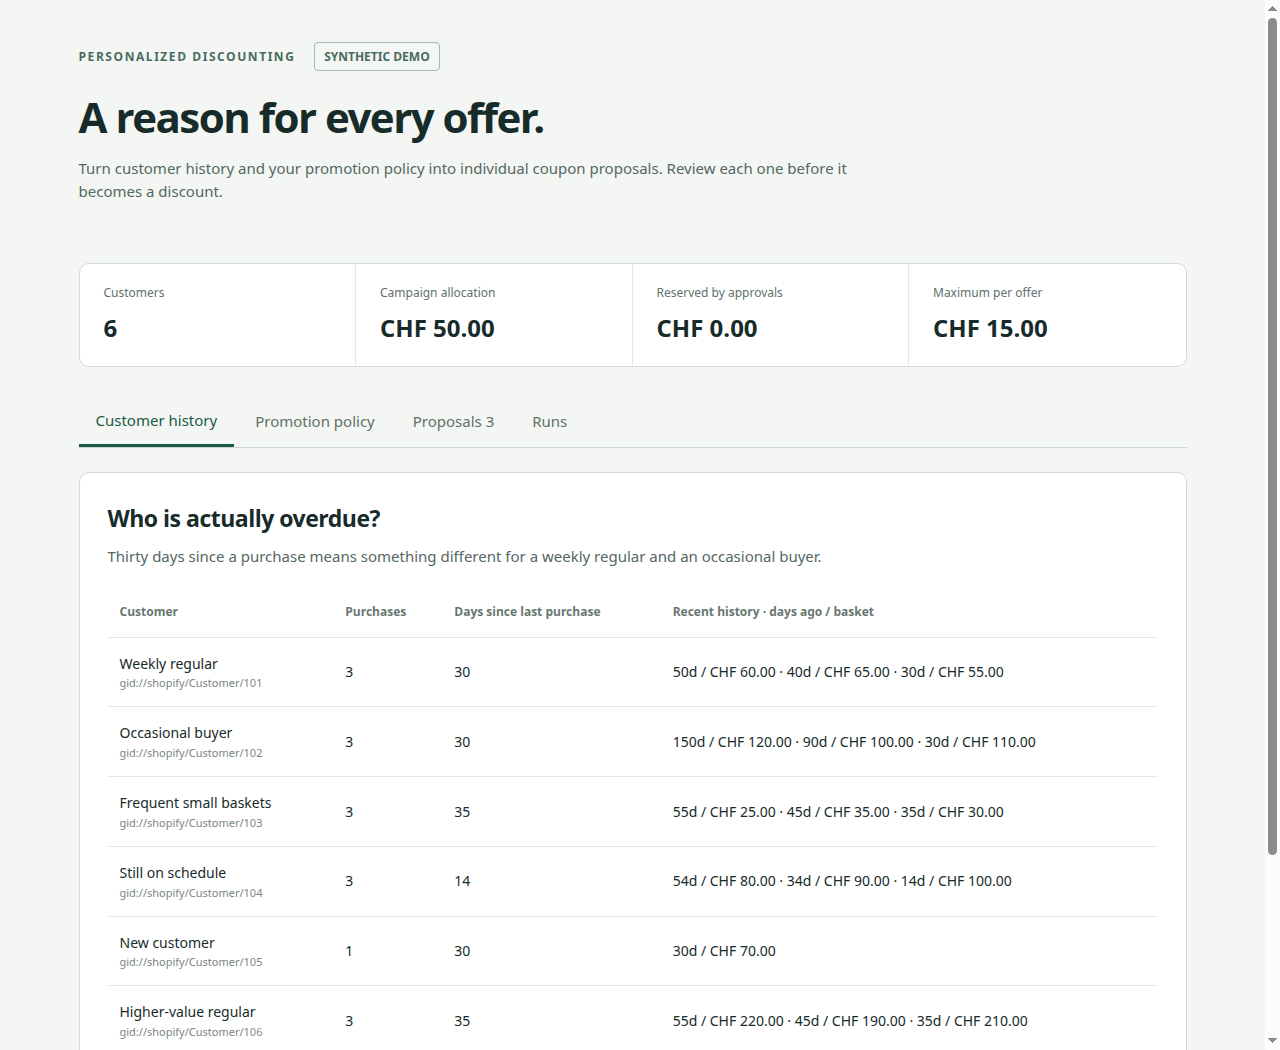
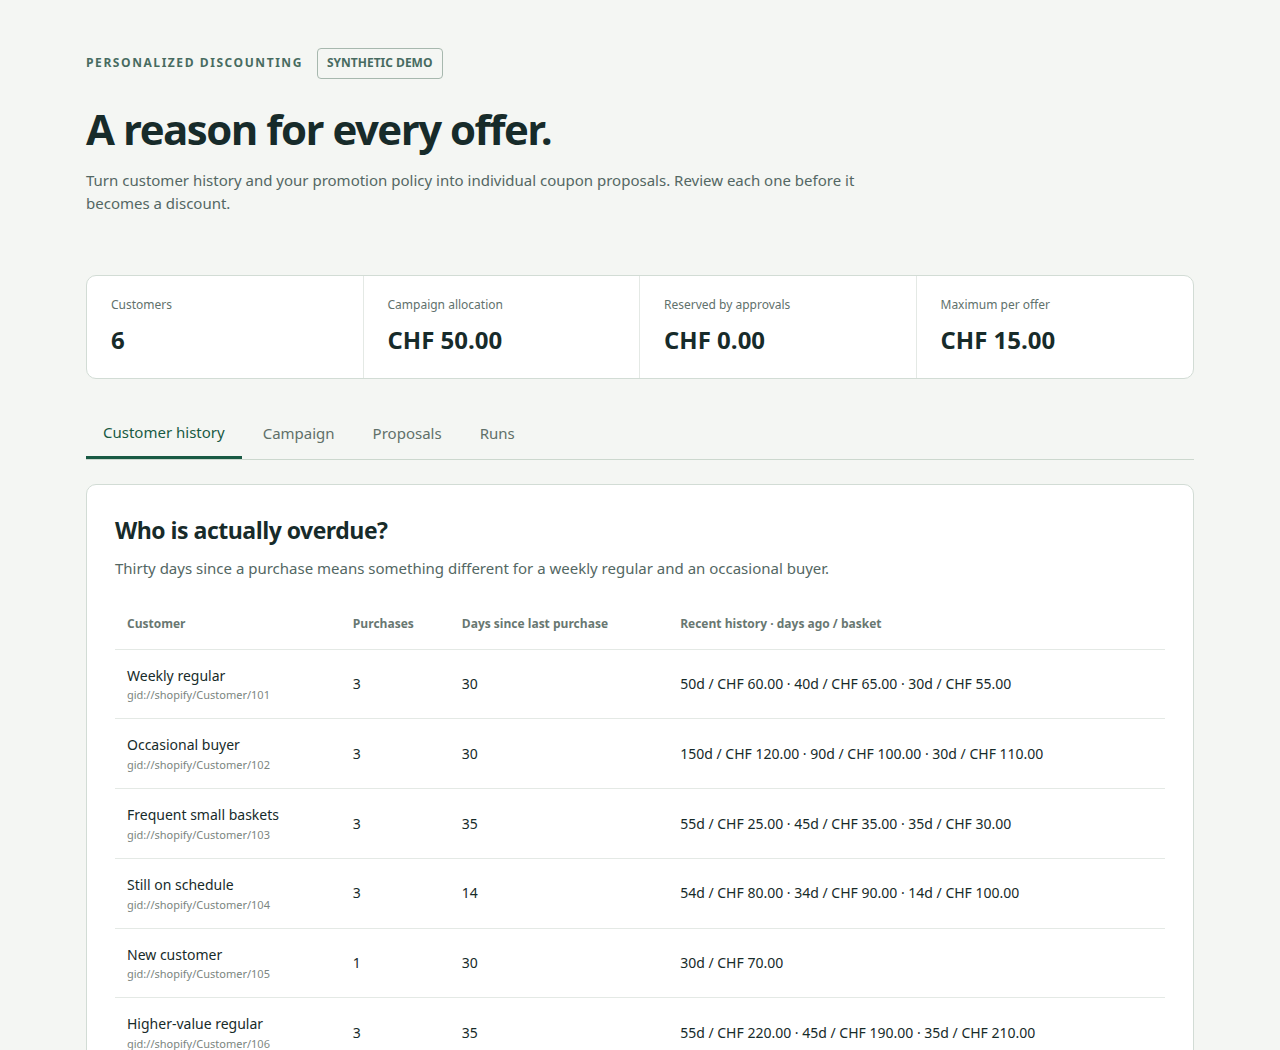
Improve solution

diff --git a/docs/content/case-studies/personalized-discounting.md b/docs/content/case-studies/personalized-discounting.md
@@ -60,96 +60,64 @@ the program sees and what it does.
 
 ## The agentic solution
 
-Harpe provides that API. Before any program exists, the owner's application
-declares, as a Jo interface, what a program may see and do. The interface lists
-only what discounting needs. The AI then writes a program in Jo, and Harpe
-checks it against the interface before running it. A program that reaches for
-anything else does not run.
+The owner's application defines the narrow API as a Jo interface. The AI writes
+a Jo program against it, and Harpe compiles the program before running it.
+
+The program cannot reach around the interface, because
+[all side effects are denied by default](/overview/compile-time-sandboxing/).
+Files, the network, the database, and Python do not exist in the program's
+compilation environment, so the program cannot even name them. It can use only
+what it receives: the `promotions` interface and printing. Anything else is a
+compile error.
 
 ![The owner's application holds the Shopify access key, the mapping from stand-in labels to real customer IDs, and approval. Names and addresses are never imported. A Jo interface, checked before the program runs, lets the AI-written program see stand-in labels, purchase dates, and basket amounts, and only save draft offers. Reading a name or calling anything else is rejected before the program runs.](/img/personalized-discounting-boundary.svg)
 
-For the owner, the flow stays simple. They write the promotion rule in plain
-language and ask for proposals. The program saves a draft coupon for each
-customer it selects, with:
+This is the entire interface:
 
-- The discount amount, minimum basket, and expiry.
-- A reason that shows the purchase figures behind the offer.
+```jo
+class Purchase(day: Int, subtotalCents: Int)
+class Customer(id: String, purchases: List[Purchase])
+class Campaign(today: Int, currency: String, budgetCents: Int, maxOfferCents: Int)
+class Offer(customerId: String, amountCents: Int, minimumSpendCents: Int, reason: String)
 
-A draft is not a real discount. The owner approves or rejects each one.
-Approval creates a single-use coupon that only that customer can use. Nothing
-is emailed.
+interface Promotions
+  def campaign(): Campaign
+  def customers(): List[Customer]
+  def saveDrafts(offers: List[Offer]): String
+end
 
-The owner can change a sentence and ask again. Each run keeps the rule and the
-customer data it used, so every reason points to specific evidence.
-
-## What the program can see
-
-The program must tell one customer's purchases from another's. It does not need
-to know who those customers are. It sees records like this:
-
-```text
-customer-1
-  50 days ago: CHF 60
-  40 days ago: CHF 65
-  30 days ago: CHF 55
+param promotions: Promotions
+defer def runTask(): Unit receives IO.stdout, promotions
 ```
 
-`customer-1` is a stand-in label, not the Shopify customer ID. Anyone with admin
-access can turn a Shopify ID back into a name. The owner's application keeps
-track of who `customer-1` is and uses that when the owner approves a coupon.
+It is reviewed once, in version control, and it binds every program the AI will
+ever write.
 
-| The program sees | The program cannot see |
-| --- | --- |
-| A stand-in customer label | Shopify customer ID |
-| Purchase dates | Name, email, phone number |
-| Basket amounts | Billing and shipping addresses |
-| The owner's rule and budget | Order notes, payment details |
+**What the program sees.** A customer is a stand-in label such as `customer-1`
+and a list of purchase dates and amounts. `Customer` has no name, email, or
+Shopify ID field, so a program that reads one does not compile. The program
+reads no free text, so nothing a customer typed can steer the AI. The Shopify
+import never fetches names or addresses in the first place.
 
-The only free text the program reads is the owner's rule. Nothing a customer
-typed can reach it.
-
-Two layers keep it this way. The Shopify import fetches only each order's date,
-amount, status, and customer ID, so names and addresses never enter the
-application. The program's interface then leaves out the Shopify IDs. It
-describes a customer as a label and a purchase history. A program that asks for
-`name` or `email` is rejected before it runs.
-
-## What the program can do
-
-The program may do four things:
-
-```text
-Read the campaign budget and limits
-Read the owner's rule
-Read the customer purchase histories
-Save draft offers with reasons
-```
-
-A program that tries anything else, such as opening the database, calling the
-network, or approving a draft, is rejected before it runs. The Shopify access
-key stays in the owner's application.
-
-The application checks every batch of drafts. Each offer must be for a customer
-in this run, stay under the per-coupon limit, and require a minimum basket of at
-least four times the discount. The whole batch must fit the budget. The
-application also creates the coupon code, and the AI's reason is never sent to
-Shopify. No text written by the AI reaches a customer.
-
-Approval sets aside the full value of each coupon from the budget, in case every
-customer uses theirs.
+**What the program does.** Its only write is `saveDrafts`. The application
+checks each batch against the per-coupon limit and the budget, and generates the
+coupon codes. The owner approves each draft before it becomes a single-use
+coupon for that customer. No program can approve a draft, and the Shopify access
+key never leaves the application.
 
 ## Try the demo
 
 The [Personalized Discounting project](https://github.com/typescope/personalized-discounting)
-provides a customer-history view, an editable rule, coupon proposals, owner
-approval, and run reports.
+provides a customer-history view, a campaign policy editor, coupon proposals,
+owner approval, and run reports.
 
 The customer view puts buying patterns side by side. Its labels are for the
 owner. The program receives only stand-in labels.
 
 ![The demo's customer-history page compares recent purchase dates and basket amounts for six synthetic customers.](/img/personalized-discounting-customers.png)
 
-The rule is plain text. Saving a change makes it the input to the next run.
+The owner creates a campaign by writing its policy in plain text. That text is
+the AI's prompt. The generated program never reads it.
 
 ![The policy editor describes how to estimate purchasing intervals, calculate individual offers, and allocate the campaign budget.](/img/personalized-discounting-policy.png)
 
@@ -168,9 +136,9 @@ jo start
 
 Open **http://127.0.0.1:8767**. The customers are made up. **Run sample
 policy** runs the included Jo program without an AI key. **Generate proposals**
-asks the configured AI to write and run a new program for the saved rule.
+asks the configured AI to write and run a new program for the policy.
 
-Try changing the rule so the budget goes first to customers who are furthest
+Try changing the policy so the budget goes first to customers who are furthest
 behind their usual schedule. Compare the recipients and reasons before approving
 any offer. The project README explains how to connect a Shopify development
 store and create real coupons after approval.
